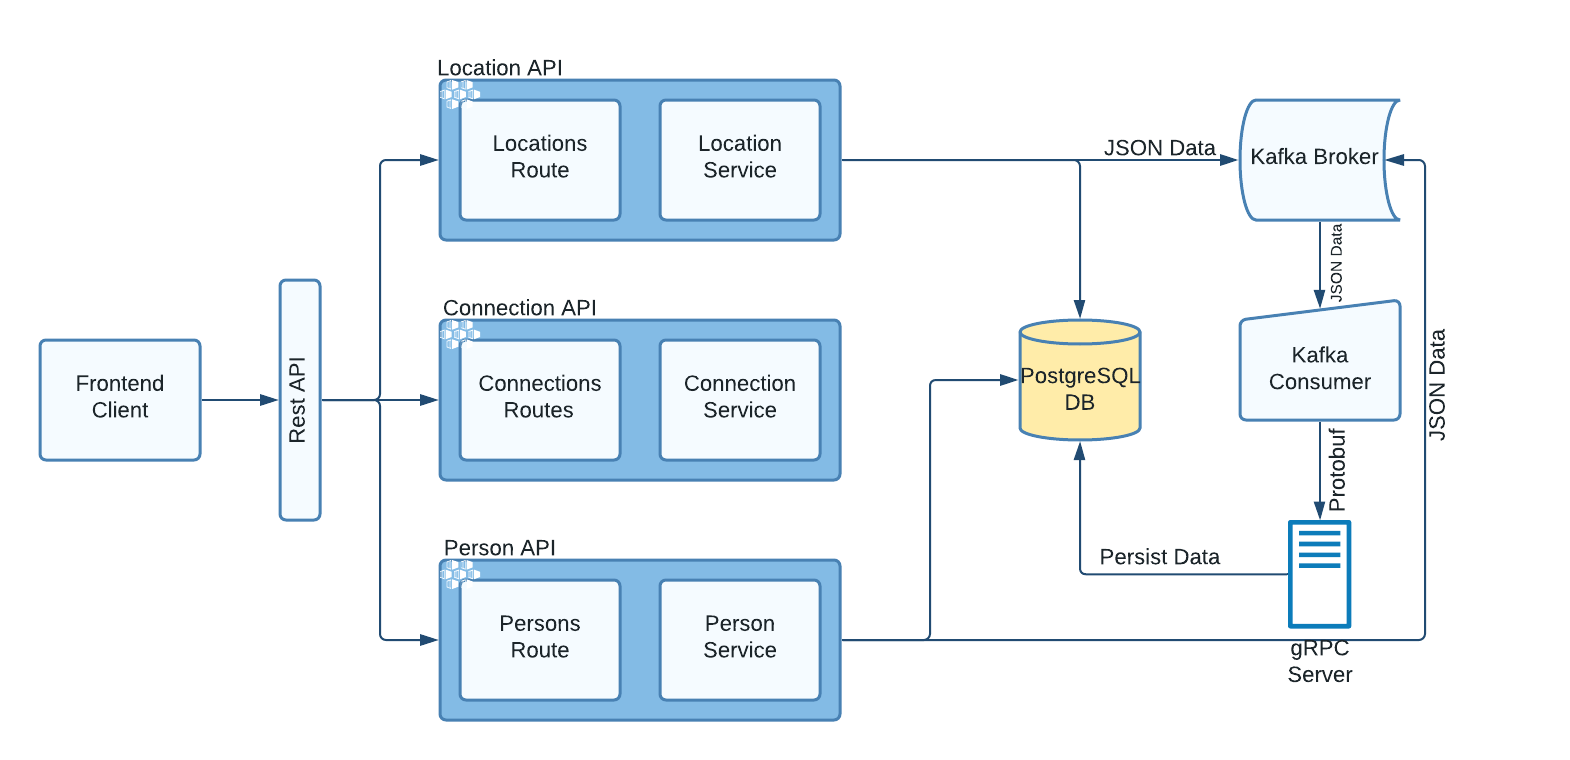
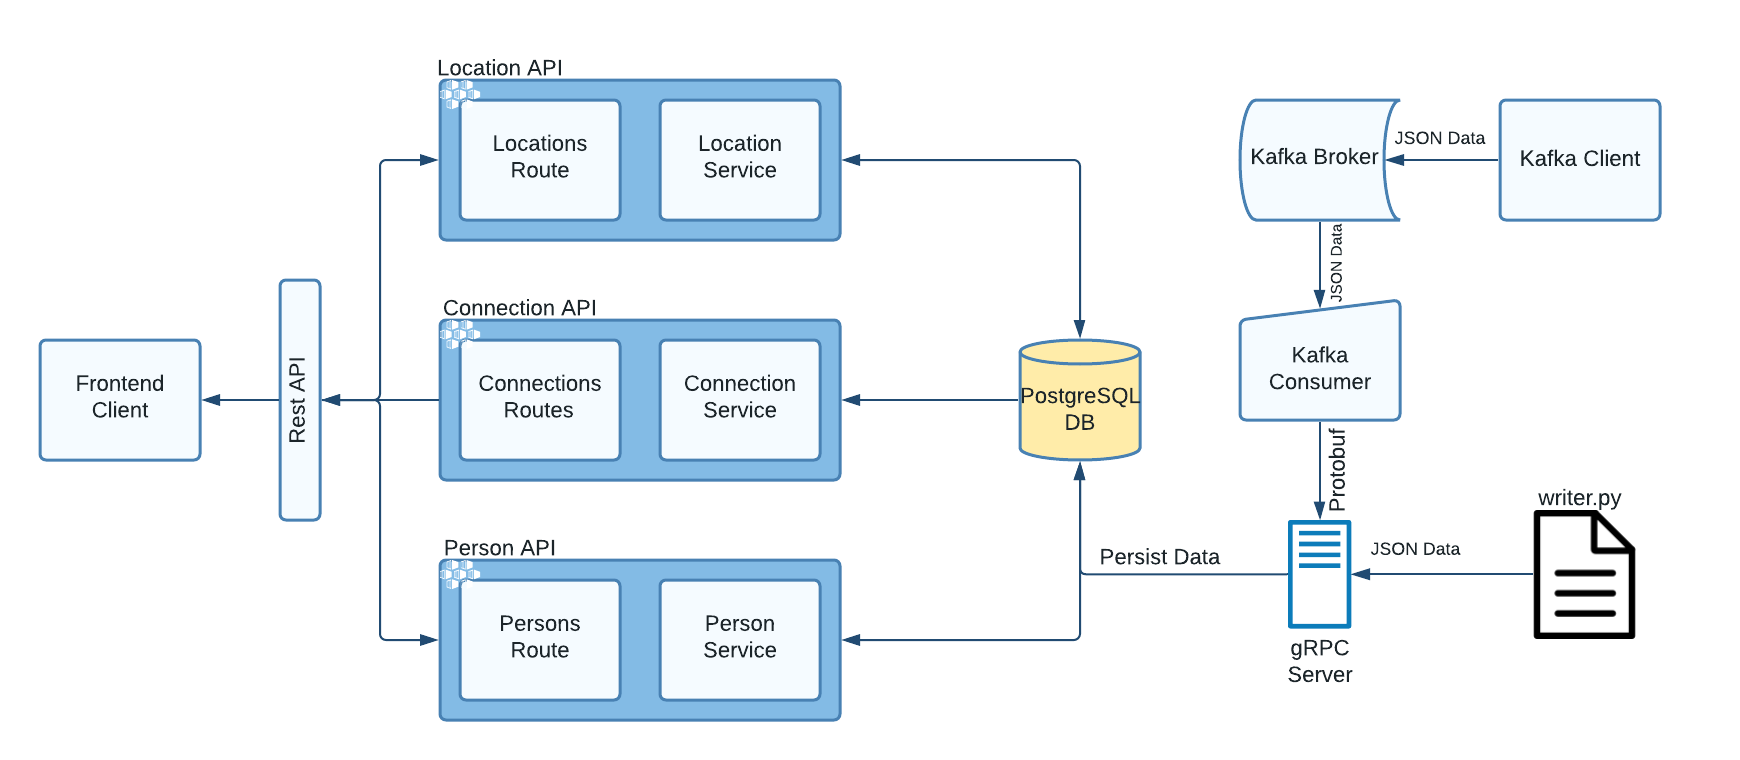
Updated the architecture design to reflect the app

Changed region(s): [[0.0, 0.1211, 0.9675, 0.9079], [0.2185, 0.6961, 0.5618, 0.9684], [0.2185, 0.0605, 0.5618, 0.3329]]

diff --git a/README.md b/README.md
@@ -64,7 +64,7 @@ The following page should now load on the browser:
 * `http://localhost:30000/` - Frontend ReactJS Application
 
 ## Step 7: Test Apache Kafka
-Create a pod to be used as Kafka client
+Create a pod to be used as Kafka client to inject some data (person or location)
 
 ```
 kubectl run kafka-client --restart='Never' --image docker.io/bitnami/kafka:2.8.1-debian-10-r57 --namespace default --command -- sleep infinity
@@ -83,9 +83,12 @@ Inject the json payload in the following format:
 {'first_name':'Joel','last_name':'Mbiye','company_name':'HyPerfect SARL'}
 ```
 
-Refresh the frontend page to see the person added
+Refresh the frontend page to see the person added.
 
-## Step 8: Postman
+## Step 8: gRPC
+Run Python command using the file /modules/grpc/writer.py to add a person or a location to the database.
+
+## Step 9: Postman
 Open Postman and import [`postman.json`](docs/postman.json) collection to test the different API requests.
 
 Notice how the results are being reflected on the frontend app.
